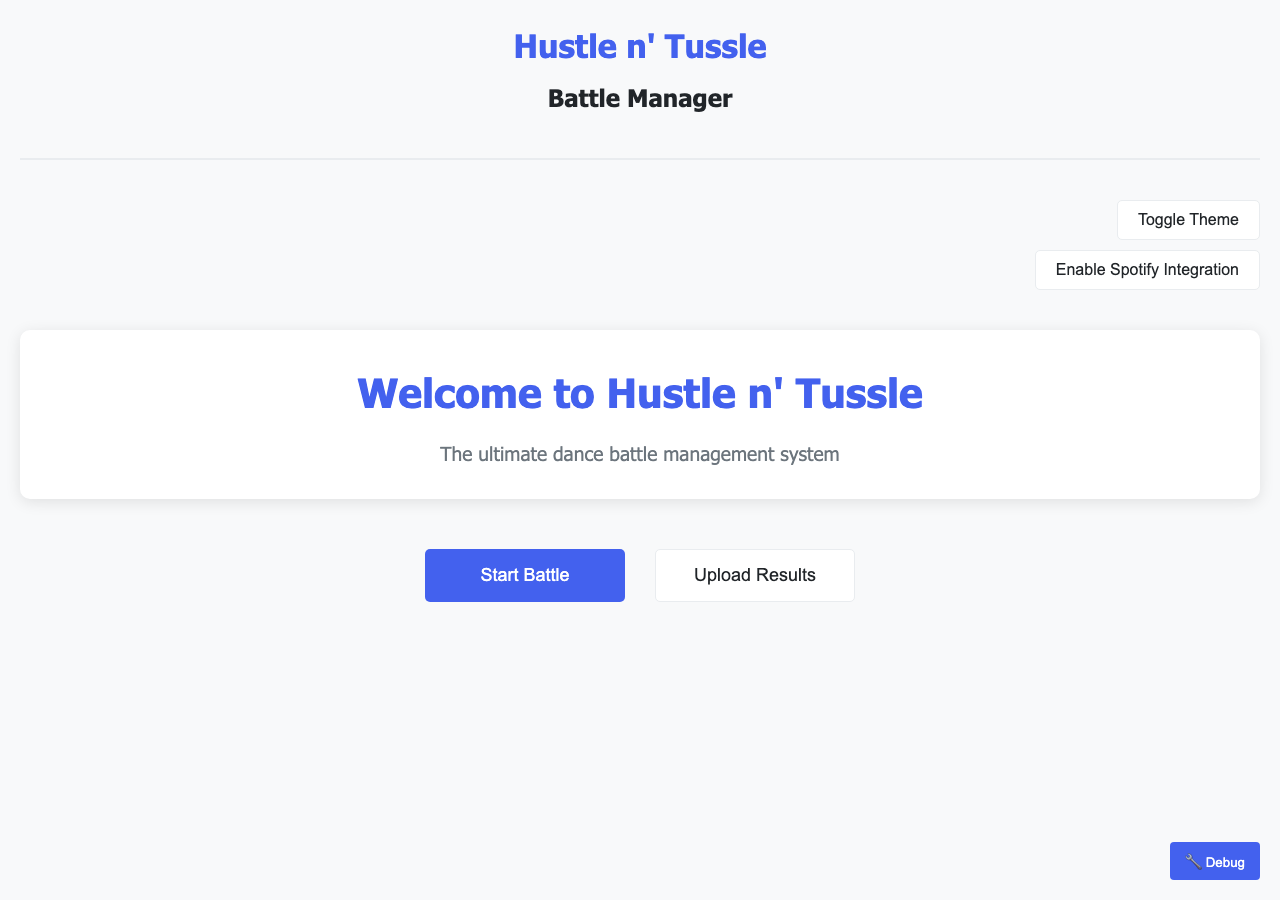
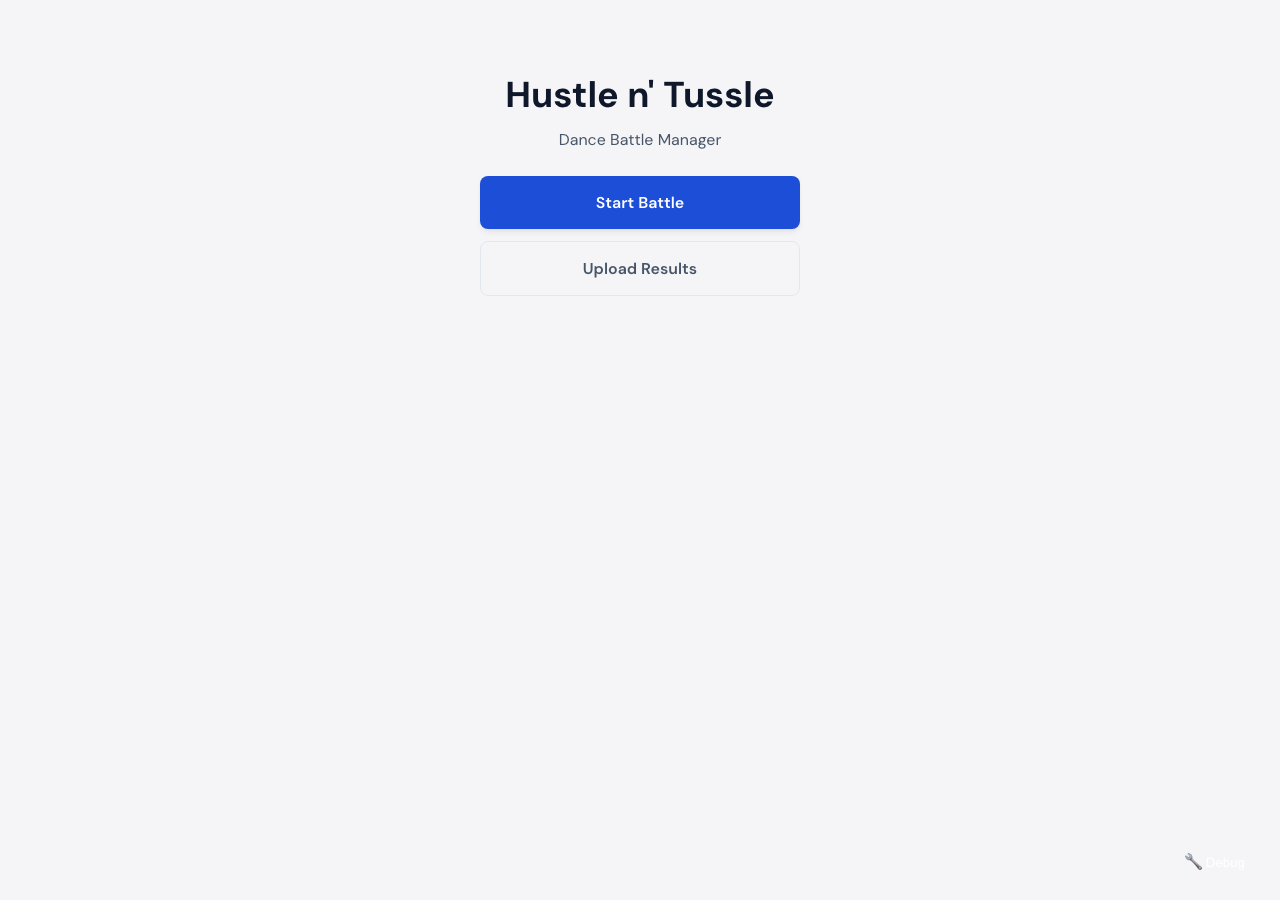
docs: update README with fresh screenshots and display mode images
Add battle-midgame, display-dark, and display-light screenshots.
Refresh all existing screenshots with latest UI. Update README to
showcase display mode features.

diff --git a/README.md b/README.md
@@ -75,6 +75,10 @@ Each round, cast votes for leads and follows separately. Selected votes are high
 
 You can **Undo Round** to revert a mistake, or **End Battle Early** to determine winners by current standings.
 
+As the battle progresses, the battle graphic tracks every round's results for all contestants. Winning rounds are highlighted so you can follow each dancer's journey at a glance.
+
+![Battle Mid-Game](docs/screenshots/battle-midgame.png)
+
 ### Results
 
 When the battle ends, you'll see final leaderboards with point progression for every contestant, plus a collapsible round-by-round history.
@@ -85,7 +89,11 @@ Click **Download Battle Data** to export a multi-sheet Excel file with the full 
 
 ### Display Mode
 
-Share a spectator-only view of the battle on a projector or second screen. A QR code and display URL are shown in the header during the battle -- audience members can scan it to follow along live. The display auto-refreshes every 3 seconds.
+Share a spectator-only view of the battle on a projector or second screen. The display shows the current matchup, contestant judges, who's next up, and the full battle graphic -- all optimized for projector legibility. A QR code and display URL are shown in the header during the battle -- audience members can scan it to follow along live. The display auto-refreshes every 3 seconds.
+
+![Display Mode (Dark)](docs/screenshots/display-dark.png)
+
+![Display Mode (Light)](docs/screenshots/display-light.png)
 
 ### Spotify Integration
 
